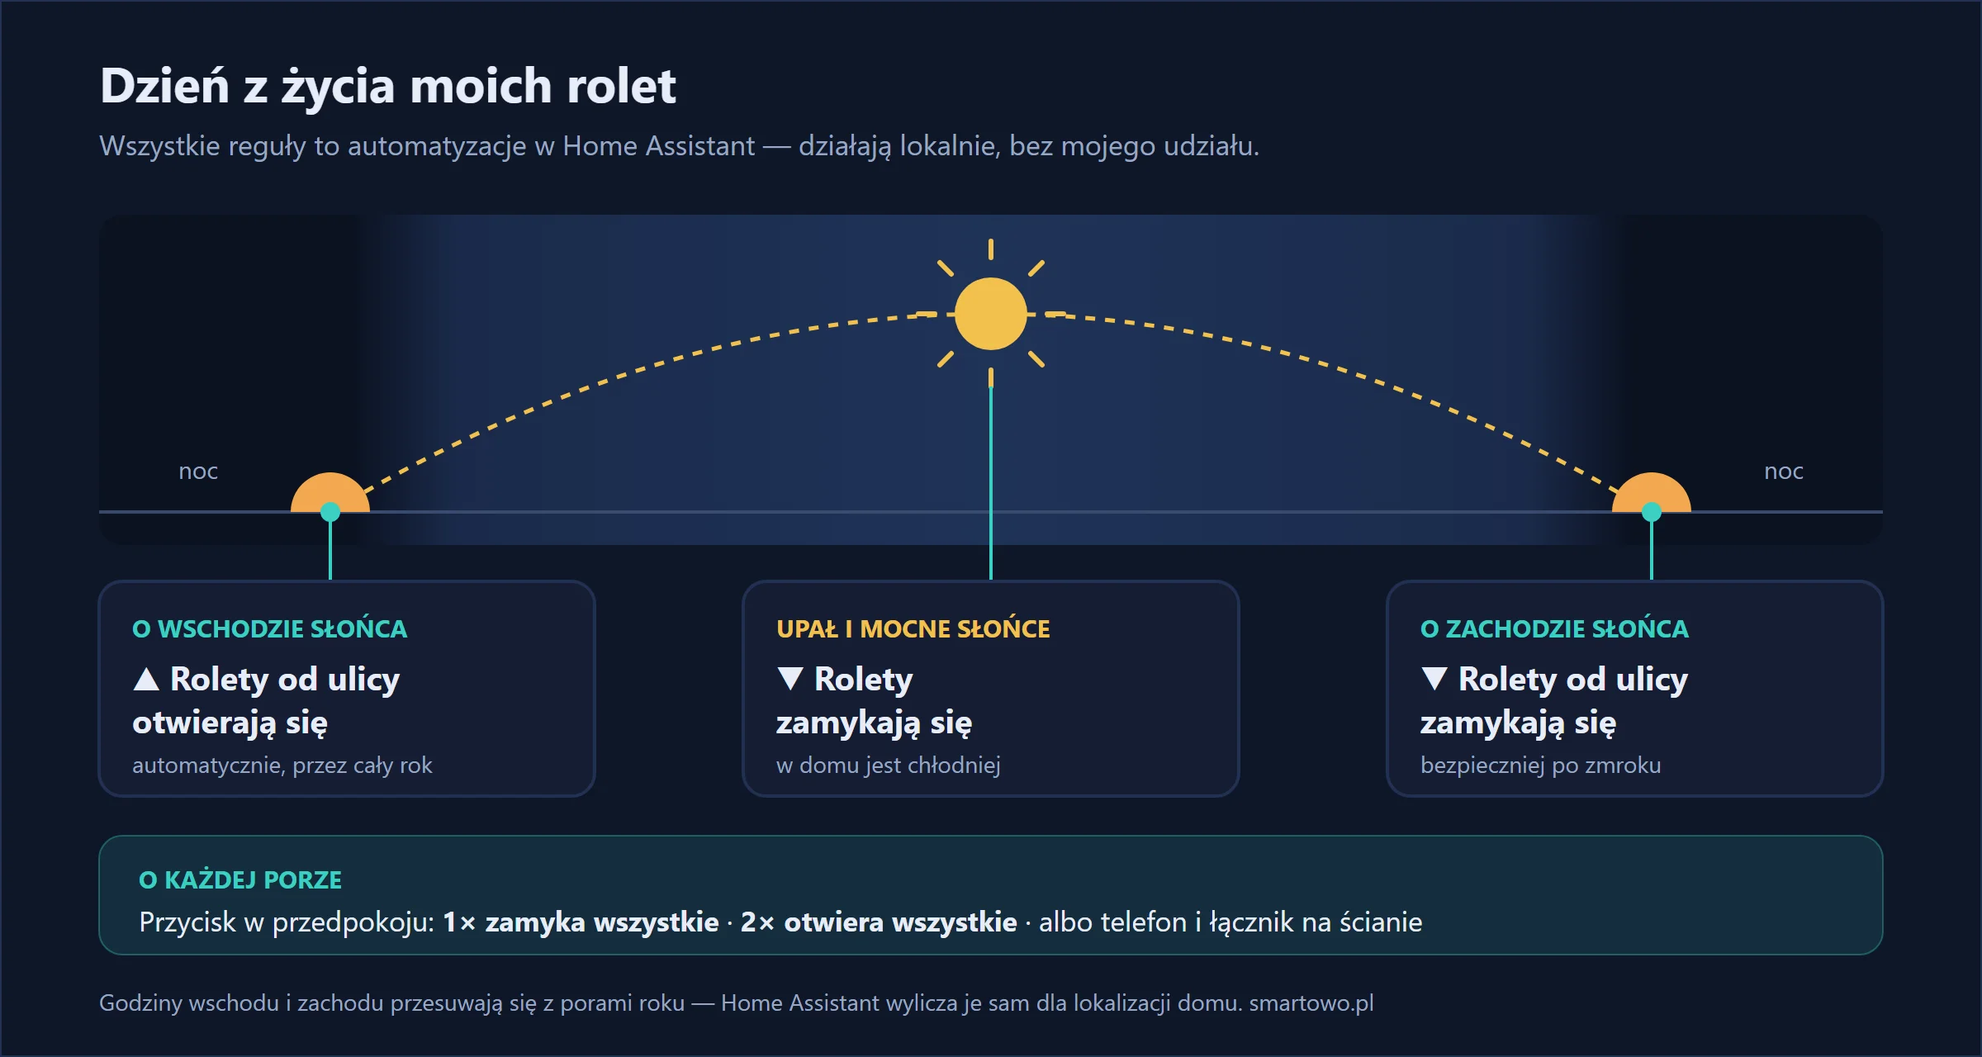
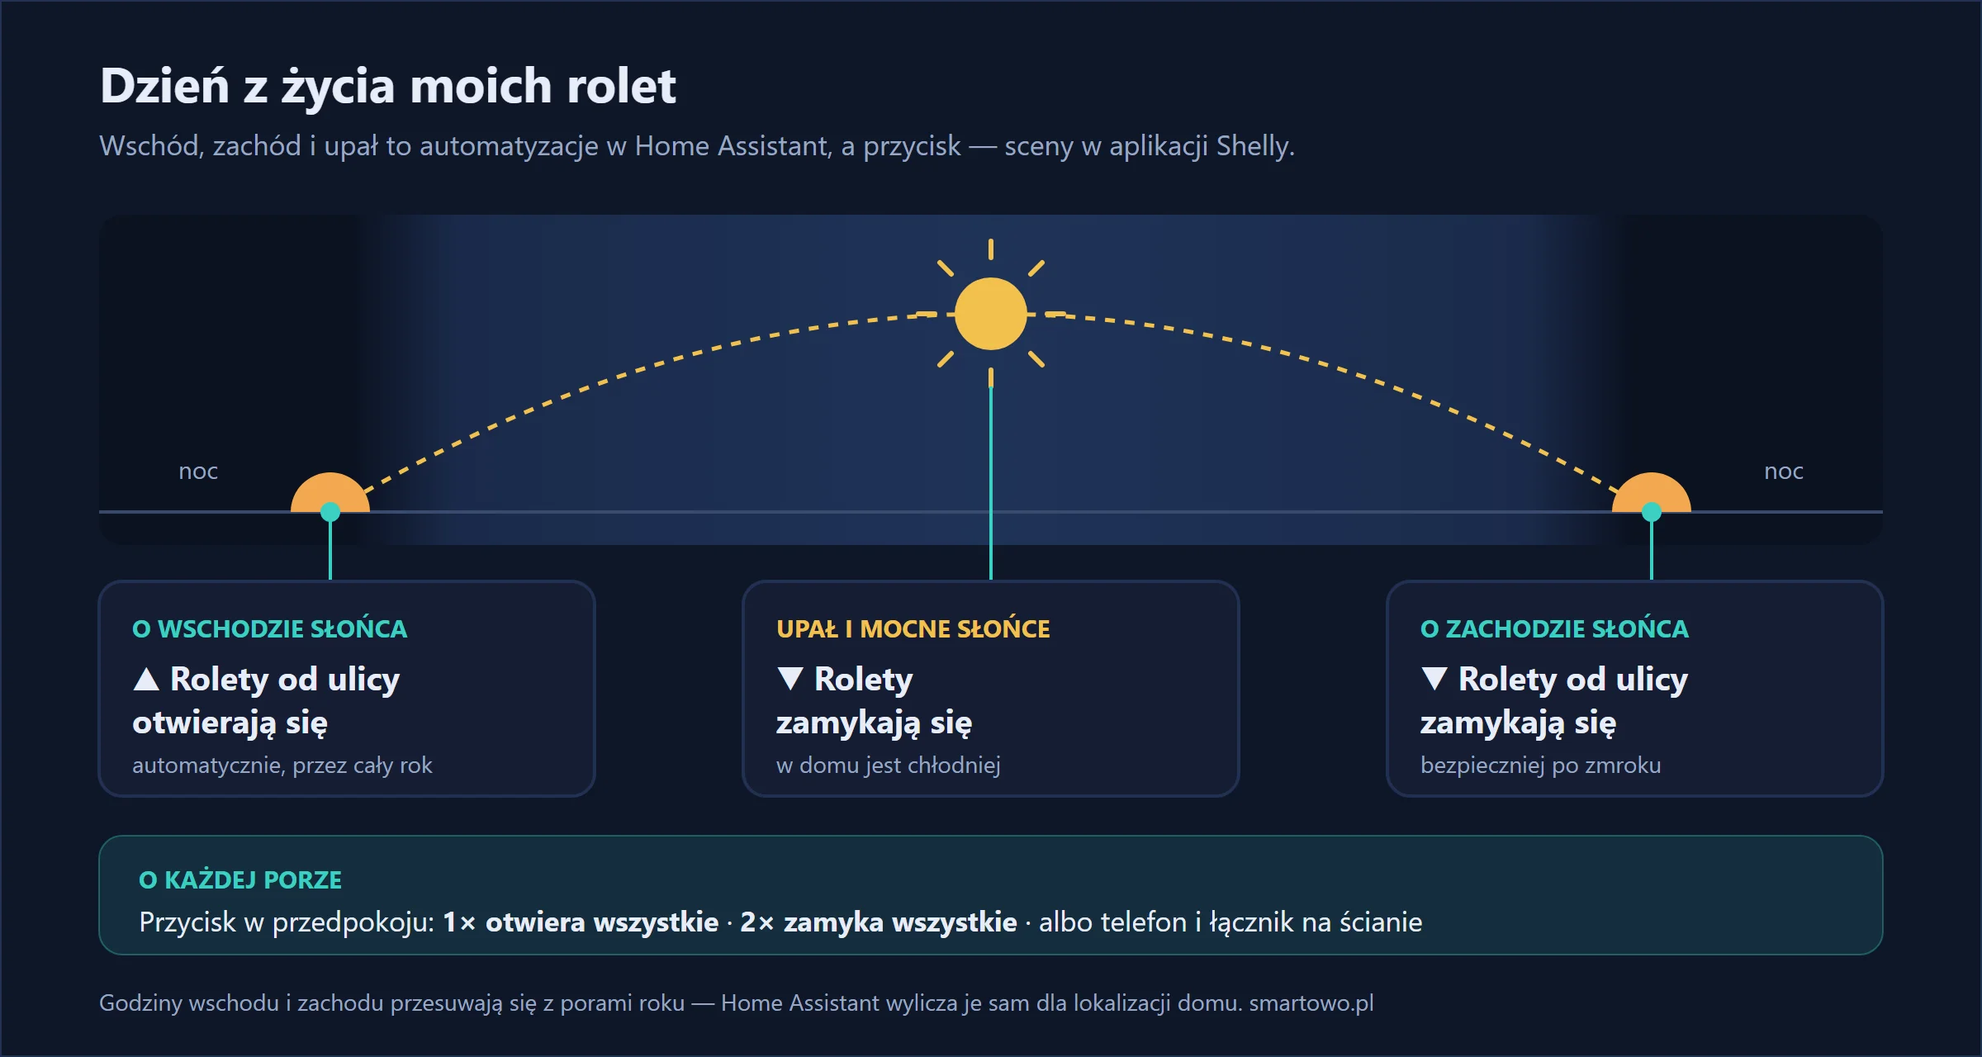
Publish roller shutter and senior articles
Roller shutters: photos, Home Assistant and Shelly app screenshots,
button actions corrected (1x opens, 2x closes, Shelly app scenes),
note on mixed Gen2/Gen4 modules and their terminal order.
Senior: description with the key phrase.
SEO: title suffix only for short titles, JPG og:image next to WebP.

Changed region(s): [[0.0625, 0.125, 0.6562, 0.1562], [0.4062, 0.8438, 0.4375, 0.9062], [0.25, 0.8438, 0.2812, 0.9062]]

diff --git a/_includes/head.html b/_includes/head.html
@@ -1,8 +1,17 @@
 <meta charset="UTF-8">
 <meta name="viewport" content="width=device-width, initial-scale=1.0">
-{%- capture page_title -%}{{ page.title }}{% unless page.home %} — Smartowo{% endunless %}{%- endcapture -%}
+{%- comment -%} Sufiks tylko przy krótkich tytułach — dłuższe Google i tak ucina (~60 znaków). {%- endcomment -%}
+{%- assign title_len = page.title | size -%}
+{%- capture page_title -%}{{ page.title }}{% unless page.home or title_len > 48 %} — Smartowo{% endunless %}{%- endcapture -%}
 {%- assign page_description = page.description | default: page.excerpt | default: site.description | strip_html | strip_newlines | truncate: 160 -%}
 {%- assign page_image = page.image | default: "/assets/img/og-smartowo.jpg" | absolute_url -%}
+{%- comment -%} og:image: JPG obok WebP (np. glowne.jpg), bo nie każdy podgląd linku obsługuje WebP. {%- endcomment -%}
+{%- assign og_image = page_image -%}
+{%- if page.image -%}
+  {%- assign og_jpg = page.image | replace: ".webp", ".jpg" -%}
+  {%- assign og_jpg_file = site.static_files | where: "path", og_jpg | first -%}
+  {%- if og_jpg_file -%}{%- assign og_image = og_jpg | absolute_url -%}{%- endif -%}
+{%- endif -%}
 <title>{{ page_title }}</title>
 <meta name="description" content="{{ page_description }}">
 <link rel="canonical" href="{{ page.url | absolute_url }}">
@@ -17,7 +26,7 @@
 <meta property="og:title" content="{{ page_title }}">
 <meta property="og:description" content="{{ page_description }}">
 <meta property="og:url" content="{{ page.url | absolute_url }}">
-<meta property="og:image" content="{{ page_image }}">
+<meta property="og:image" content="{{ og_image }}">
 <meta property="og:image:width" content="1200">
 <meta property="og:image:height" content="630">
 <meta name="twitter:card" content="summary_large_image">

diff --git a/_posts/2026-10-14-sterowanie-roletami-z-telefonu-shelly-2pm.md b/_posts/2026-10-14-sterowanie-roletami-z-telefonu-shelly-2pm.md
@@ -1,12 +1,12 @@
 ---
-published: false
+published: true
 layout: post
 title: "Sterowanie roletami z telefonu bez kucia — Shelly 2PM"
 location: "Wrocław, Swojczyce"
 description: "Sterowanie roletami z telefonu bez kucia ścian: Shelly 2PM Gen4 w puszce, rolety same o wschodzie i zachodzie słońca, jeden przycisk do wszystkich."
 excerpt: "Rolety, które same otwierają się o wschodzie i zamykają o zachodzie słońca, jeden przycisk do zamknięcia wszystkich naraz i sterowanie z telefonu — bez kucia ścian i bez wymiany łączników."
-# image: /assets/blog/sterowanie-roletami-z-telefonu-shelly-2pm/glowne.webp
-# image_alt: "Okno z roletą zamykającą się o zachodzie słońca, w dłoni telefon z aplikacją Shelly"
+image: /assets/blog/sterowanie-roletami-z-telefonu-shelly-2pm/glowne.webp
+image_alt: "Roleta w drzwiach tarasowych zatrzymana w połowie, w dłoni telefon z aplikacją Shelly pokazującą jej położenie"
 cta_tytul: "Chcesz takie rolety u siebie? Zrobię to za Ciebie"
 cta_tekst: "Montuję Shelly 2PM w istniejących puszkach, konfiguruję harmonogramy, przyciski i Home Assistant. Zostaw numer — oddzwonię i powiem, ile to będzie kosztować w Twoim domu."
 ---
@@ -15,7 +15,7 @@ Znasz ten poranny rytuał? Chodzisz od okna do okna i trzymasz przycisk, aż rol
 
 U mnie w domu — we Wrocławiu, na Swojczycach — rolety robią to same. Te od strony ulicy rano otwierają się o wschodzie słońca, a wieczorem zamykają o zachodzie. Gdy chcę zamknąć wszystkie naraz — naciskam jeden bezprzewodowy przycisk. A z telefonu steruję nimi z dowolnego miejsca. Wszystko to [bez kucia ścian](/#uslugi), bez wymiany łączników i bez nowych przewodów.
 
-<!-- ZDJĘCIE 1: dom / okna z roletami w połowie zamknięte o zachodzie słońca -->
+![Dwa okna z roletami opuszczonymi do połowy, za oknem nisko świecące słońce](/assets/blog/sterowanie-roletami-z-telefonu-shelly-2pm/rolety-o-zachodzie.webp){: width="1200" height="900" loading="lazy"}
 
 W tym wpisie pokazuję, jak to zrobiłem, jakiego sprzętu użyłem i jak go skonfigurować — krok po kroku.
 
@@ -24,8 +24,8 @@ W tym wpisie pokazuję, jak to zrobiłem, jakiego sprzętu użyłem i jak go sko
 - **Każda roleta** dostała moduł Shelly 2PM schowany w puszce za istniejącym łącznikiem. Łącznik działa dalej tak jak wcześniej.
 - **Harmonogramy** otwierają rolety od strony ulicy o wschodzie i zamykają je o zachodzie słońca — godziny same przesuwają się z porami roku.
 - **Automatyzacja „upał”** zamyka rolety, gdy na zewnątrz jest gorąco i mocno świeci słońce.
-- **Przycisk Shelly BLU RC Button 4** w przedpokoju otwiera lub zamyka wszystkie rolety jednocześnie.
-- **Home Assistant** wykrywa wszystkie moduły automatycznie i steruje nimi lokalnie, bez chmury — u mnie to w nim są zdefiniowane wszystkie automatyzacje rolet.
+- **Przycisk Shelly BLU RC Button 4** w przedpokoju otwiera lub zamyka wszystkie rolety jednocześnie — to dwie sceny w aplikacji Shelly.
+- **Home Assistant** wykrywa wszystkie moduły automatycznie i steruje nimi lokalnie, bez chmury — u mnie działają w nim automatyzacje wschodu, zachodu i upału.
 - **Aplikacja Shelly** to druga droga sterowania każdą roletą z telefonu.
 
 ![Schemat: łącznik roletowy (przewodowo) i przycisk Shelly BLU RC Button 4 (Bluetooth) sterują modułem Shelly 2PM Gen4, który zasila silnik rolety; Home Assistant i telefon łączą się z modułem przez Wi-Fi](/assets/blog/sterowanie-roletami-z-telefonu-shelly-2pm/schemat-systemu.webp){: width="1200" height="680" loading="lazy"}
@@ -34,7 +34,7 @@ W tym wpisie pokazuję, jak to zrobiłem, jakiego sprzętu użyłem i jak go sko
 
 ## Sprzęt, którego użyłem
 
-Sercem całego systemu jest moduł do sterowania roletami. Montuje się go w puszce elektrycznej, za łącznikiem, którym dotąd sterowałeś roletą. Przez dwa lata używałem Shelly 2PM drugiej generacji, a teraz mam w domu najnowszą, czwartą:
+Sercem całego systemu jest moduł do sterowania roletami. Montuje się go w puszce elektrycznej, za łącznikiem, którym dotąd sterowałeś roletą. Przez dwa lata używałem Shelly 2PM drugiej generacji, a teraz większość rolet działa już na najnowszej, czwartej:
 
 {% include produkt.html id="shelly-2pm-gen4" opis="Jeden moduł na jedną roletę. Mieści się w puszce za łącznikiem, mierzy pobór prądu silnika, dzięki czemu zna dokładną pozycję rolety." %}
 
@@ -56,8 +56,6 @@ Najważniejsza zaleta 2PM to **pomiar mocy**. Moduł „czuje”, kiedy silnik d
 
 > **Uwaga:** montaż wymaga pracy przy instalacji 230 V. Jeśli nie masz uprawnień elektrycznych, zleć go elektrykowi — albo [napisz do mnie](#kontakt), zrobię to za Ciebie.
 
-<!-- ZDJĘCIE 2: Shelly 2PM w dłoni, widać zaciski i opisy -->
-
 **1. Wyłącz zasilanie.** Wyłącz bezpiecznik obwodu rolet i sprawdź próbnikiem, że w puszce nie ma napięcia.
 
 **2. Sprawdź puszkę.** Wykręć łącznik i zobacz, co jest w środku. Potrzebujesz przewodu fazowego (L), neutralnego (N) i dwóch przewodów do silnika rolety (góra/dół). Shelly 2PM **wymaga przewodu neutralnego**. Zmierz też głębokość puszki: **jeśli ma co najmniej 6 cm, moduł zmieści się razem ze standardowym łącznikiem roletowym.** W płytszych puszkach zamiast zwykłego łącznika stosuję płaski przełącznik Shelly — moduł montuje się w jego uchwycie i wszystko się mieści:
@@ -68,9 +66,9 @@ Najważniejsza zaleta 2PM to **pomiar mocy**. Moduł „czuje”, kiedy silnik d
 
 Do przełącznika potrzebna jest ramka — ja używam {% include link.html id="shelly-wall-frame-1" tekst="pojedynczej ramki Shelly Wall Frame 1" %}.
 
-<!-- ZDJĘCIE 3: otwarta puszka z podłączonym modułem, przed wsunięciem łącznika (zasilanie wyłączone!) -->
+![Otwarta puszka podtynkowa z podłączonym modułem Shelly 2PM Gen4 (zaciski O1, L, L, O2, S1, S2, N), przed nią wysunięty osprzęt ścienny](/assets/blog/sterowanie-roletami-z-telefonu-shelly-2pm/puszka-z-modulem-gen4.webp){: width="1200" height="900" loading="lazy"}
 
-**3. Podłącz moduł.** Moduł ma dwa zaciski L — oba podłączasz do fazy, a zacisk N do przewodu neutralnego. Wspólny przewód silnika rolety też łączysz z N, a przewody kierunków (góra/dół) z wyjściami O1 i O2. Łącznik roletowy podłączasz do wejść S1 i S2, a jego wspólny zacisk zasilasz z fazy. Przewód ochronny PE silnika łączysz z PE instalacji — nie z modułem. Zawsze sprawdź schemat w instrukcji modułu i opis przewodów silnika.
+**3. Podłącz moduł.** Moduł ma dwa zaciski L — oba podłączasz do fazy, a zacisk N do przewodu neutralnego. Wspólny przewód silnika rolety też łączysz z N, a przewody kierunków (góra/dół) z wyjściami O1 i O2. Łącznik roletowy podłączasz do wejść S1 i S2, a jego wspólny zacisk zasilasz z fazy. Przewód ochronny PE silnika łączysz z PE instalacji — nie z modułem. Zawsze sprawdź schemat w instrukcji modułu i opis przewodów silnika. Uwaga przy starszych modułach: Shelly Plus 2PM (Gen2) ma te same zaciski, ale w innej kolejności (N, O1, L, L, O2, S1, S2) — podłączaj według opisów na obudowie, nie według położenia.
 
 ![Schemat podłączenia Shelly 2PM Gen4 w trybie rolety: zaciski O1, L, L, O2, S1, S2, N; oba L do fazy, N i wspólny przewód silnika do neutralnego, kierunki silnika do O1 i O2, łącznik roletowy między fazą a S1 i S2](/assets/blog/sterowanie-roletami-z-telefonu-shelly-2pm/schemat-podlaczenia.webp){: width="1200" height="720" loading="lazy"}
 
@@ -78,7 +76,7 @@ Do przełącznika potrzebna jest ramka — ja używam {% include link.html id="s
 
 **5. Skalibruj roletę.** Uruchamiasz kalibrację w aplikacji — roleta sama przejedzie w górę i w dół, a moduł zapamięta czas przejazdu. Od tej chwili widzisz położenie rolety w procentach.
 
-<!-- ZDJĘCIE 4: zrzut ekranu z aplikacji Shelly — kalibracja lub suwak pozycji rolety -->
+![Aplikacja Shelly: roleta w salonie ze suwakiem położenia, otwarta w 100%, przyciski Open i Close](/assets/blog/sterowanie-roletami-z-telefonu-shelly-2pm/aplikacja-shelly-suwak.webp){: width="300" height="570" loading="lazy"}
 
 **6. Złóż wszystko z powrotem.** Wsuwasz moduł do puszki, przykręcasz łącznik. Z zewnątrz nie widać żadnej różnicy.
 
@@ -90,8 +88,6 @@ To funkcja, której używam najczęściej — a właściwie nie używam, bo dzia
 
 W ustawieniach każdego modułu Shelly można dodać **harmonogram**, który zamiast konkretnej godziny korzysta ze wschodu lub zachodu słońca dla Twojej lokalizacji. Zimą rolety zamykają się więc około 16:00, latem około 21:00 — bez przestawiania czegokolwiek.
 
-<!-- ZDJĘCIE 5: zrzut ekranu harmonogramu „o zachodzie słońca” w aplikacji Shelly -->
-
 Kilka ustawień, które polecam:
 
 - **Przesunięcie względem wschodu/zachodu.** Możesz ustawić np. zamykanie 15 minut po zachodzie, żeby w pokoju nie zrobiło się ciemno za wcześnie.
@@ -102,17 +98,19 @@ Ważne: harmonogramy zapisane w samym module działają **lokalnie** — nawet g
 
 U mnie harmonogram mają **rolety od strony ulicy**: o zachodzie słońca same się zamykają, a o wschodzie — otwierają. Wieczorem nikt z ulicy nie zagląda do środka, a rano nie muszę o nich pamiętać. Mam to ustawione jako automatyzację w Home Assistant (o tym niżej), ale ten sam efekt da się uzyskać samym harmonogramem w aplikacji Shelly.
 
+![Automatyzacja „Wschód” w Home Assistant: wyzwalacz „Kiedy słońce wschodzi”, akcje otwierają rolety Blat, Kuchnia, Schody i Wejście](/assets/blog/sterowanie-roletami-z-telefonu-shelly-2pm/home-assistant-automatyzacja-wschod.webp){: width="400" height="583" loading="lazy"}
+
 ## Jeden przycisk do wszystkich rolet
 
 Harmonogram to podstawa, ale czasem trzeba coś zmienić ręcznie — np. zamknąć wszystkie rolety naraz przed wyjściem z domu albo gdy zaczyna się burza.
 
 Do tego służy przycisk **Shelly BLU RC Button 4 ZB**. Nie wymaga żadnych przewodów: działa na baterii i komunikuje się przez Bluetooth (ma też Zigbee). Trzyma się na magnesie, więc w każdej chwili można go zdjąć ze ściany i użyć jak pilota. Shelly 2PM Gen4 (i Gen3) można z nim sparować bezpośrednio (funkcja BTHome Components), więc nie potrzebujesz dodatkowej centralki.
 
-<!-- ZDJĘCIE 6: przycisk BLU na ścianie, w miejscu, w którym naprawdę wisi -->
+![Przycisk Shelly BLU RC Button 4 na magnetycznym uchwycie na ścianie w przedpokoju](/assets/blog/sterowanie-roletami-z-telefonu-shelly-2pm/przycisk-blu-na-scianie.webp){: width="1200" height="900" loading="lazy"}
 
-Ma cztery przyciski, a każdy rozpoznaje wielokrotne kliknięcia — razem można im przypisać do 16 różnych akcji. U mnie przycisk wisi w przedpokoju: **jedno kliknięcie zamyka wszystkie rolety, dwa kliknięcia — otwierają**. Te akcje również mam zdefiniowane w Home Assistant.
+Ma cztery przyciski, a każdy rozpoznaje wielokrotne kliknięcia — razem można im przypisać do 16 różnych akcji. U mnie przycisk wisi w przedpokoju: **jedno kliknięcie prawego górnego przycisku otwiera wszystkie rolety, dwa kliknięcia — zamykają**. Te akcje to dwie proste sceny w aplikacji Shelly.
 
-<!-- ZDJĘCIE 7: zrzut ekranu automatyzacji przycisku w Home Assistant -->
+![Dwie sceny w aplikacji Shelly: „Otwórz wszystkie rolety” — jedno kliknięcie prawego górnego przycisku otwiera rolety; „Zamknij wszystkie rolety” — podwójne kliknięcie je zamyka](/assets/blog/sterowanie-roletami-z-telefonu-shelly-2pm/aplikacja-shelly-sceny-przycisku.webp){: width="1200" height="442" loading="lazy"}
 
 ## Bez Home Assistant: reguły i sceny w aplikacji Shelly
 
@@ -123,22 +121,21 @@ Jeśli nie masz Home Assistant, sporo zrobisz w samej aplikacji Shelly. Poza har
 - otwórz rolety w salonie do połowy w weekendowe poranki.
 
 Dobrze wiedzieć: sceny w aplikacji Shelly działają przez chmurę, więc wymagają internetu. Harmonogramy zapisane w samym module — nie.
-
-<!-- ZDJĘCIE 8: zrzut ekranu listy scen / reguł w aplikacji Shelly -->
-
 ## Integracja z Home Assistant
 
 Jeśli korzystasz z Home Assistant, Shelly to jeden z najwygodniejszych wyborów. Moduły pojawiają się w Home Assistant same — system wykrywa je w sieci i proponuje dodanie. Każda roleta to osobna encja z położeniem w procentach, którą widzisz na pulpicie i możesz użyć w automatyzacjach.
 
 Komunikacja odbywa się **lokalnie**, bez pośrednictwa chmury, więc działa szybko i niezależnie od internetu.
 
-U mnie Home Assistant to centrum sterowania roletami: są w nim zdefiniowane wszystkie sceny i automatyzacje — harmonogram rolet od ulicy i akcje przycisku w przedpokoju — i z jego pulpitu mogę też sterować każdą roletą bezpośrednio. Aplikacja Shelly zostaje jako druga droga sterowania z telefonu.
+U mnie Home Assistant odpowiada za automatyzacje zależne od pory dnia — otwieranie rolet od ulicy o wschodzie i zamykanie o zachodzie słońca — i z jego pulpitu mogę też sterować każdą roletą bezpośrednio. Akcje przycisku w przedpokoju zostawiłem w aplikacji Shelly.
 
 Mam tam też automatyzację zależną od pogody: **rolety zamykają się same, gdy na zewnątrz robi się gorąco i mocno świeci słońce.** Home Assistant bierze pod uwagę temperaturę zewnętrzną i nasłonecznienie, więc w upalne dni słońce nie nagrzewa pokoi, zanim ktokolwiek zdąży o tym pomyśleć.
 
-![Oś dnia: o wschodzie słońca rolety od ulicy się otwierają, przy upale i mocnym słońcu rolety się zamykają, o zachodzie rolety od ulicy się zamykają; o każdej porze przycisk w przedpokoju zamyka (1×) lub otwiera (2×) wszystkie rolety](/assets/blog/sterowanie-roletami-z-telefonu-shelly-2pm/automatyzacje-dzien.webp){: width="1200" height="640" loading="lazy"}
+![Oś dnia: o wschodzie słońca rolety od ulicy się otwierają, przy upale i mocnym słońcu rolety się zamykają, o zachodzie rolety od ulicy się zamykają; o każdej porze przycisk w przedpokoju otwiera (1×) lub zamyka (2×) wszystkie rolety](/assets/blog/sterowanie-roletami-z-telefonu-shelly-2pm/automatyzacje-dzien.webp){: width="1200" height="640" loading="lazy"}
 
-<!-- ZDJĘCIE 9: zrzut ekranu pulpitu Home Assistant z roletami -->
+Tak wygląda karta rolet na moim pulpicie. Rolety z pokojów dzieci ukryłem na zrzucie, bo w nazwach mają ich imiona.
+
+![Pulpit Home Assistant z kartą „Rolety”: każda roleta z przyciskami w górę, stop i w dół](/assets/blog/sterowanie-roletami-z-telefonu-shelly-2pm/home-assistant-pulpit-rolety.webp){: width="400" height="467" loading="lazy"}
 
 Dzięki Home Assistant możesz połączyć rolety z resztą domu, np.:
 
@@ -167,7 +164,7 @@ Wolisz gotowe rozwiązanie z montażem? Zobacz [pakiety w cenniku](/#cennik) —
 
 ## Efekt po dwóch latach użytkowania
 
-Rolety mam zautomatyzowane od dwóch lat. Zaczynałem na modułach Shelly 2PM drugiej generacji (Shelly Plus 2PM), a niedawno wymieniłem je na Gen4, żeby mieć dodatkowe funkcje: **Matter** oraz **bezpośrednie parowanie z przyciskiem Shelly BLU**, bez pośredników.
+Rolety mam zautomatyzowane od dwóch lat. Zaczynałem na modułach Shelly 2PM drugiej generacji (Shelly Plus 2PM), a niedawno większość wymieniłem na Gen4, żeby mieć dodatkowe funkcje: **Matter** oraz **bezpośrednie parowanie z przyciskiem Shelly BLU**, bez pośredników. Kilka rolet wciąż działa na Gen2 — i nie przeszkadza to: **różne generacje Shelly bez problemu współpracują ze sobą**, a w aplikacji Shelly i w Home Assistant obsługuję je dokładnie tak samo.
 
 Najlepsze w tym rozwiązaniu jest to, że o roletach po prostu przestałem myśleć. Otwierają się i zamykają same, a gdy potrzebuję czegoś innego — mam przycisk na ścianie, przycisk BLU albo telefon.
 
@@ -176,6 +173,8 @@ Co zmieniło się na co dzień:
 - **W domu jest chłodniej** — rolety zamykają się, zanim słońce nagrzeje pokoje.
 - **Czujemy się bezpieczniej po zmroku** — rolety od ulicy zamykają się same o zachodzie słońca.
 - **Wszystko obsługujemy z telefonu** albo dedykowanym przyciskiem w przedpokoju.
+
+![Przesuwne drzwi na taras z roletami opuszczonymi do połowy](/assets/blog/sterowanie-roletami-z-telefonu-shelly-2pm/rolety-taras.webp){: width="1200" height="900" loading="lazy"}
 
 I najważniejsze: przez dwa lata **nie było żadnych kłopotów**.
 
@@ -188,7 +187,7 @@ Tak. Bez przewodu neutralnego w puszce moduł nie zadziała. W większości inst
 Tak. Łącznik podłącza się do wejść modułu, więc roletę otwierasz i zamykasz tak samo jak wcześniej.
 
 **Czy rolety działają bez internetu?**
-Tak. Łącznik, przycisk BLU, harmonogramy zapisane w module i Home Assistant działają lokalnie. Bez internetu nie zadziałają tylko sceny z chmury Shelly i sterowanie spoza domu.
+Tak. Łącznik, harmonogramy zapisane w module i Home Assistant działają lokalnie. Bez internetu nie zadziałają tylko sceny z chmury Shelly — u mnie to akcje przycisku BLU — i sterowanie spoza domu.
 
 **Czy można sterować roletami głosem?**
 Tak — przez Home Assistant albo bezpośrednio przez Matter (Shelly 2PM Gen4) w Google Home, Alexie lub Apple Home.

diff --git a/_posts/2026-10-21-czujnik-ruchu-dla-seniora-alert-brak-ruchu.md b/_posts/2026-10-21-czujnik-ruchu-dla-seniora-alert-brak-ruchu.md
@@ -1,9 +1,9 @@
 ---
-published: false
+published: true
 layout: post
 title: "Czujnik ruchu dla seniora: alert, gdy rano brak ruchu"
 location: "Wrocław, Olimpia Port"
-description: "Powiadomienie na telefon, gdy mama rano się nie poruszyła. Czujnik ruchu Shelly BLU i aplikacja Shelly — bez kamer, bez abonamentu, bez Home Assistant."
+description: "Czujnik ruchu dla seniora: powiadomienie na telefon, gdy mama rano się nie poruszy. Shelly BLU i aplikacja Shelly — bez kamer i bez abonamentu."
 excerpt: "Rodzina martwiła się o mamę w podeszłym wieku. Teraz, jeśli rano do 10:00 nie było w mieszkaniu ruchu, dzieci dostają powiadomienie na telefon. Bez kamer, montaż w godzinę."
 image: /assets/blog/czujnik-ruchu-dla-seniora-alert-brak-ruchu/glowne.webp
 image_alt: "Czujnik ruchu Shelly BLU Motion na ścianie, obok telefon z powiadomieniem z aplikacji Shelly"
